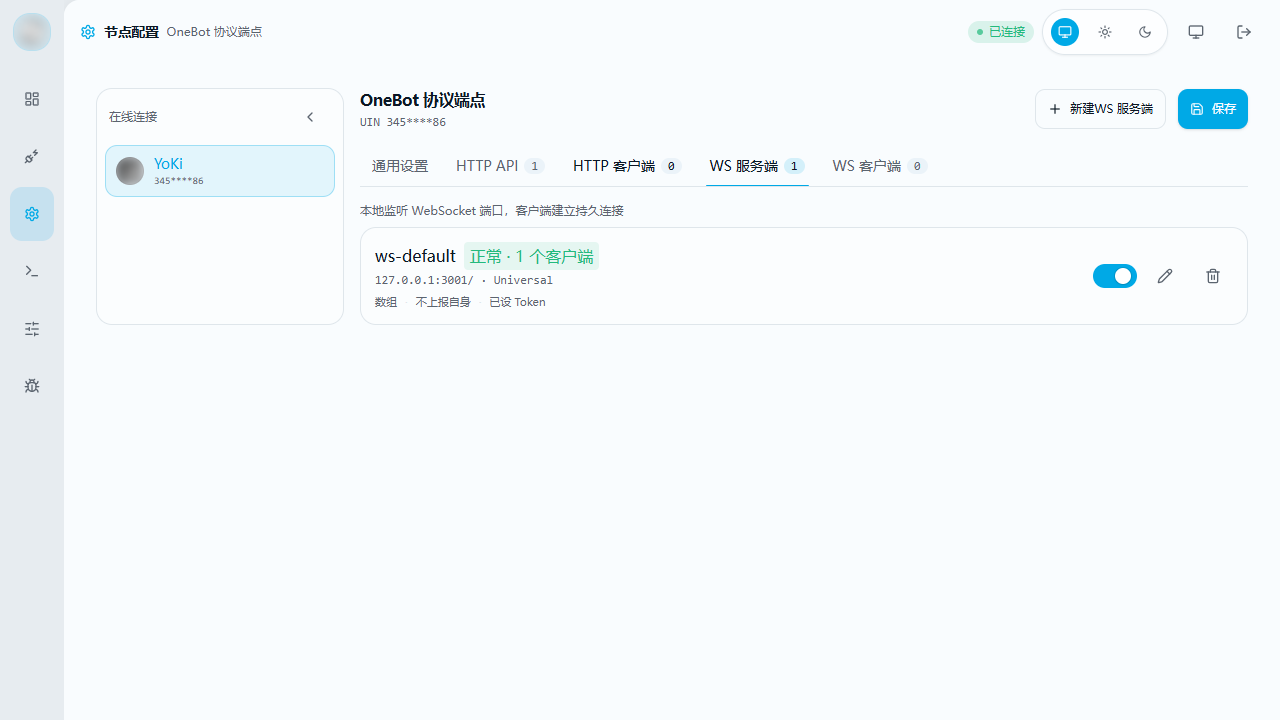
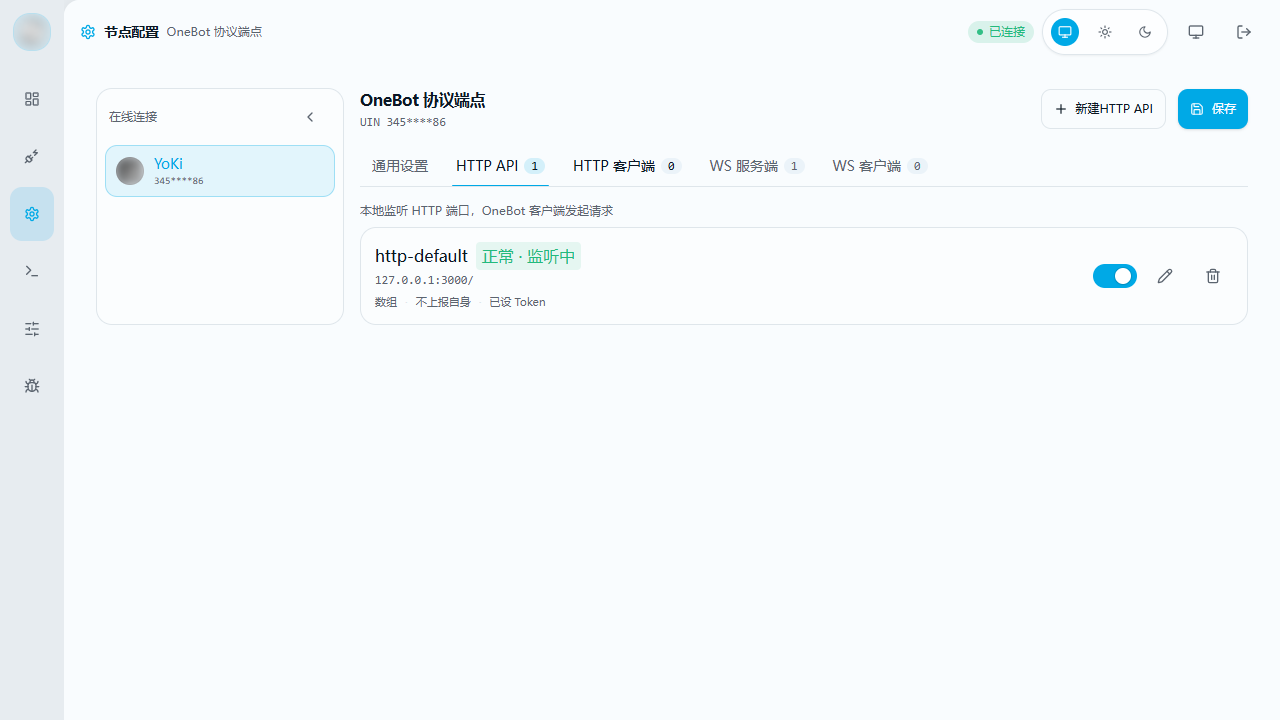
fix(docs): 端口对比图重抓，05/06 不再是同一页
SnowLuma 节点配置页的 tab 是 button[role=tab]，而 getByText(/^HTTP API/)
会同时命中 tab 和右上角「+ 新建 HTTP API」按钮，.first() 点到按钮上，
切页静默失败 —— 两次截图都是同一页（WS 服务端）。

- shoot-snowluma.mjs：改用 getByRole('tab', { name }) 并校验 aria-selected，
  没切过去会打警告而不是安静截图
- 新增 make-port-compare.mjs：把两页裁出 tab 行+端点卡片拼成一张对比图，
  红框圈监听地址、下面写清填哪个字段、底部红字提醒「都填 3001 会让 MCP 报 426」
- FROM-SCRATCH.md：两张几乎一样的图换成一张对比图，原图留下当放大参考

diff --git a/FROM-SCRATCH.md b/FROM-SCRATCH.md
@@ -160,16 +160,18 @@ node scripts/setup-dsh.mjs
 
 ![SnowLuma 节点配置页：通用设置 / HTTP API / HTTP 客户端 / WS 服务端 / WS 客户端](docs/diagrams/screens/04-snowluma-overview.png)
 
-要开两个服务，**两个端口不一样，这是后面 `config.json` 填错的第一大来源**：
+要开两个服务，**两个端口不一样，这是后面 `config.json` 填错的第一大来源**。这两页长得几乎一样（同一页、只差 tab 高亮和端口），所以下面这张图是拼起来的对比 —— 上半张是 HTTP API，下半张是 WS 服务端，红框圈的就是要抄走的地址：
 
-![HTTP API 这一 tab：http-default，监听 127.0.0.1:3000](docs/diagrams/screens/05-snowluma-onebot.png)
+![对比：HTTP API 页 http-default 监听 3000，对应 snowluma.httpUrl；WS 服务端页 ws-default 监听 3001，对应 snowluma.wsUrl](docs/diagrams/screens/07-port-compare.png)
 
-![WS 服务端这一 tab：ws-default，监听 127.0.0.1:3001](docs/diagrams/screens/06-snowluma-ws.png)
+单独两页原图在这儿，想放大看细节：`docs/diagrams/screens/05-snowluma-onebot.png`（HTTP API，`http-default`，3000）和 `docs/diagrams/screens/06-snowluma-ws.png`（WS 服务端，`ws-default`，3001）。
 
-| 图 | tab | 端口 | 填到 config.json 的哪 |
+| tab | 卡片名 | 端口 | 填到 config.json 的哪 |
 | --- | --- | --- | --- |
 | HTTP API | `http-default` | 3000 | `snowluma.httpUrl` |
 | WS 服务端 | `ws-default` | 3001 | `snowluma.wsUrl` |
+
+**两个填成同一个不会报错** —— 桥照样启动、日志照样正常，只有 MCP 工具一调用返回 `HTTP 426`。看到 426 就回来查这两行。
 
 有 accessToken 就记下来（图里那个「已设 Token」的标记 = 这个端点开了鉴权）。
 
